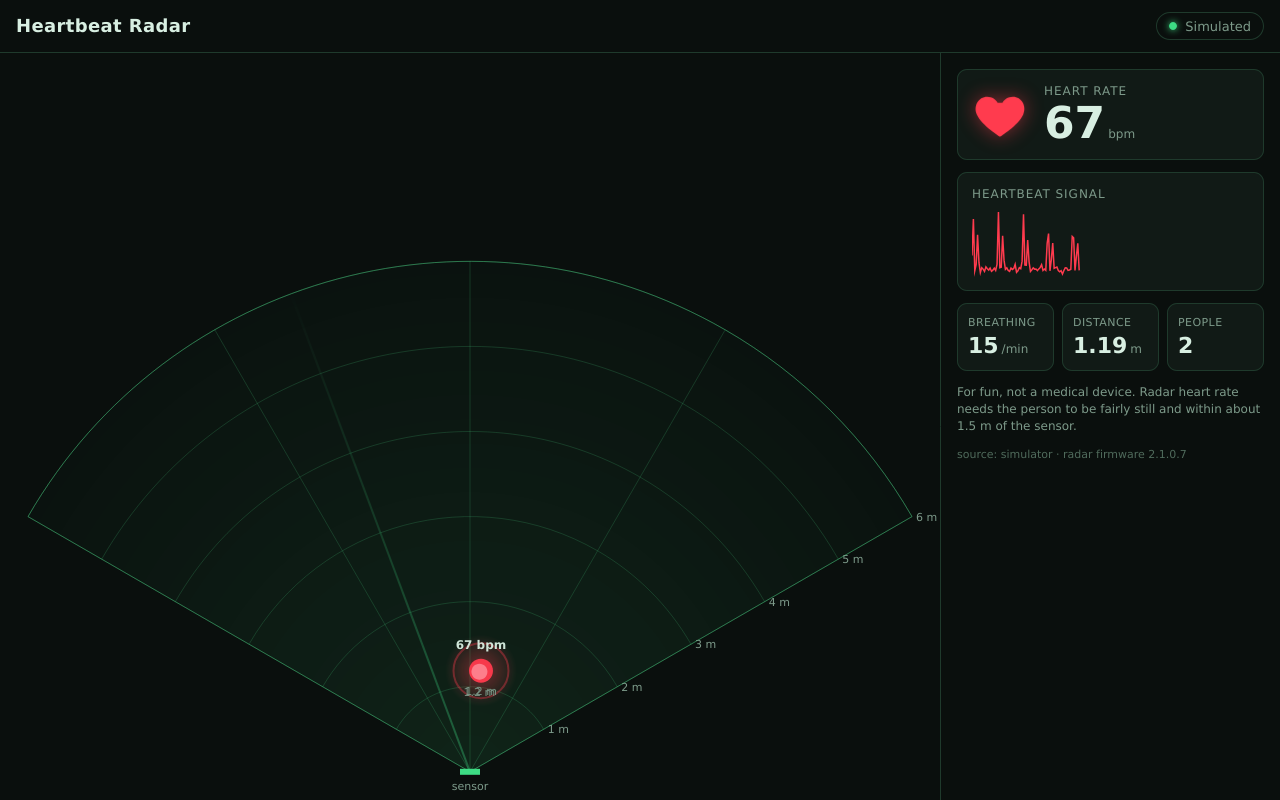
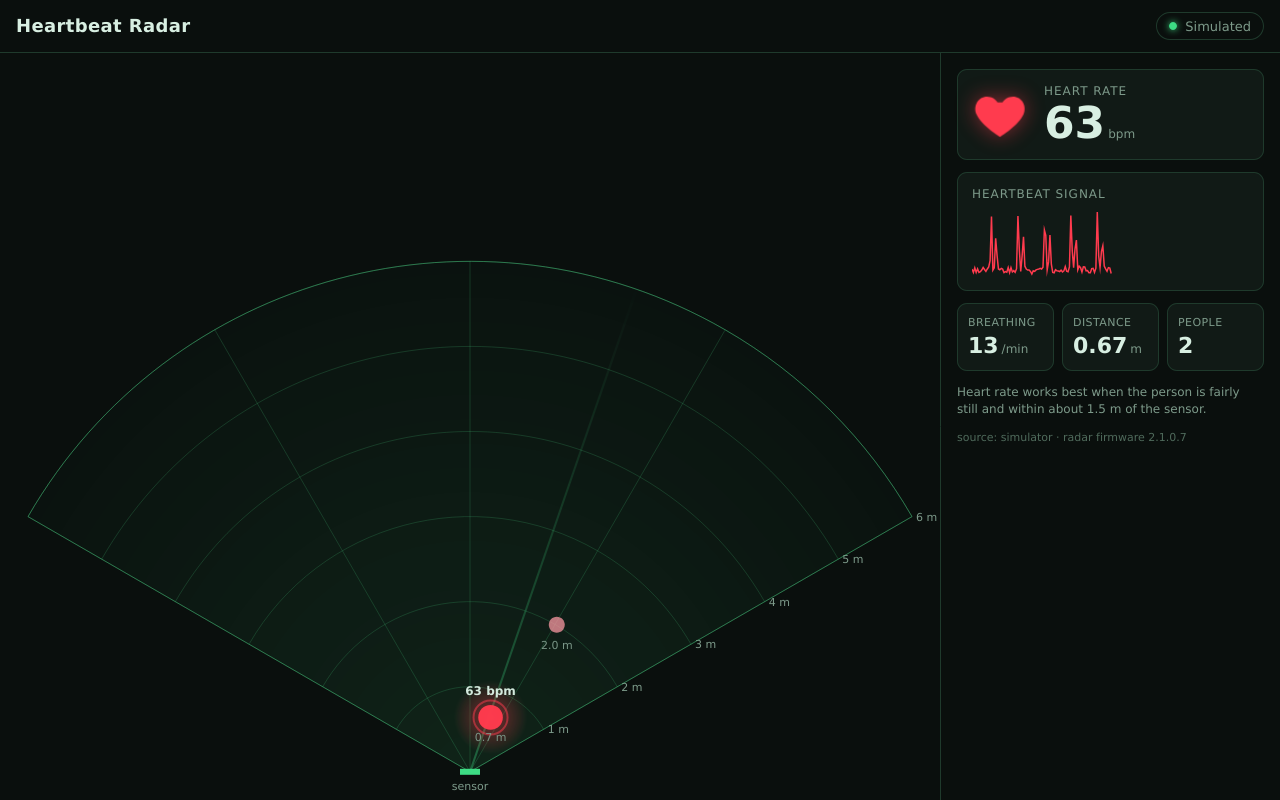
Drop medical-device note from UI, refresh screenshot, disable UI caching

diff --git a/heartbeat_radar/static/index.html b/heartbeat_radar/static/index.html
@@ -53,8 +53,8 @@
       </div>
 
       <p class="note">
-        For fun, not a medical device. Radar heart rate needs the person to be
-        fairly still and within about 1.5 m of the sensor.
+        Heart rate works best when the person is fairly still and within
+        about 1.5 m of the sensor.
       </p>
       <p id="meta" class="meta"></p>
     </aside>

diff --git a/tests/test_server.py b/tests/test_server.py
@@ -9,7 +9,9 @@ def test_serves_ui_and_streams_state():
     app = create_app(SimulatedSource(seed=2), SensorState(source="simulator"))
     with TestClient(app) as client:
         assert "Heartbeat Radar" in client.get("/").text
-        assert client.get("/static/app.js").status_code == 200
+        script = client.get("/static/app.js")
+        assert script.status_code == 200
+        assert script.headers["cache-control"] == "no-cache"
         assert client.get("/api/state").json()["type"] == "state"
         with client.websocket_connect("/ws") as ws:
             first = ws.receive_json()

diff --git a/heartbeat_radar/server.py b/heartbeat_radar/server.py
@@ -79,6 +79,13 @@ def create_app(source: Source, state: SensorState) -> FastAPI:
         finally:
             clients.discard(ws)
 
+    @app.middleware("http")
+    async def no_stale_ui(request, call_next):
+        # Browsers otherwise keep showing an old UI after the app is updated.
+        response = await call_next(request)
+        response.headers["Cache-Control"] = "no-cache"
+        return response
+
     app.mount("/static", StaticFiles(directory=STATIC_DIR), name="static")
     return app
 
